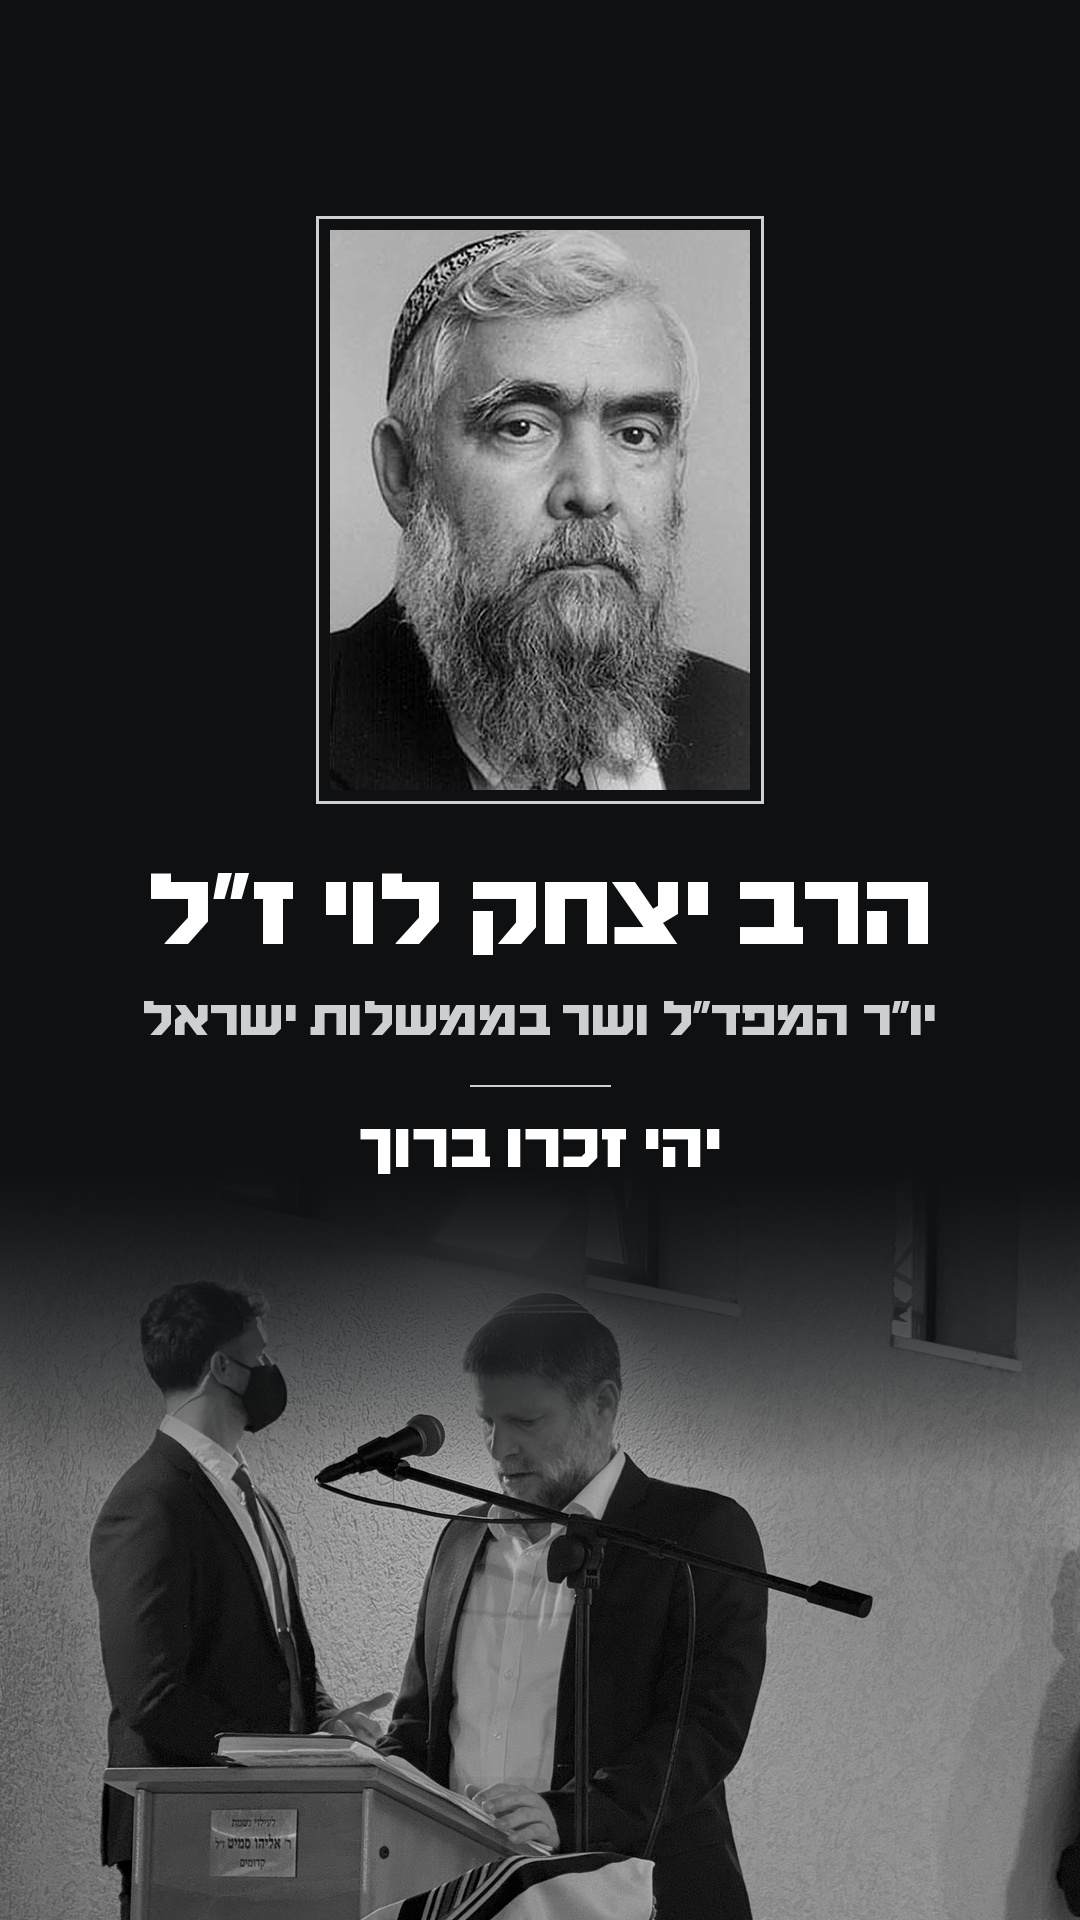
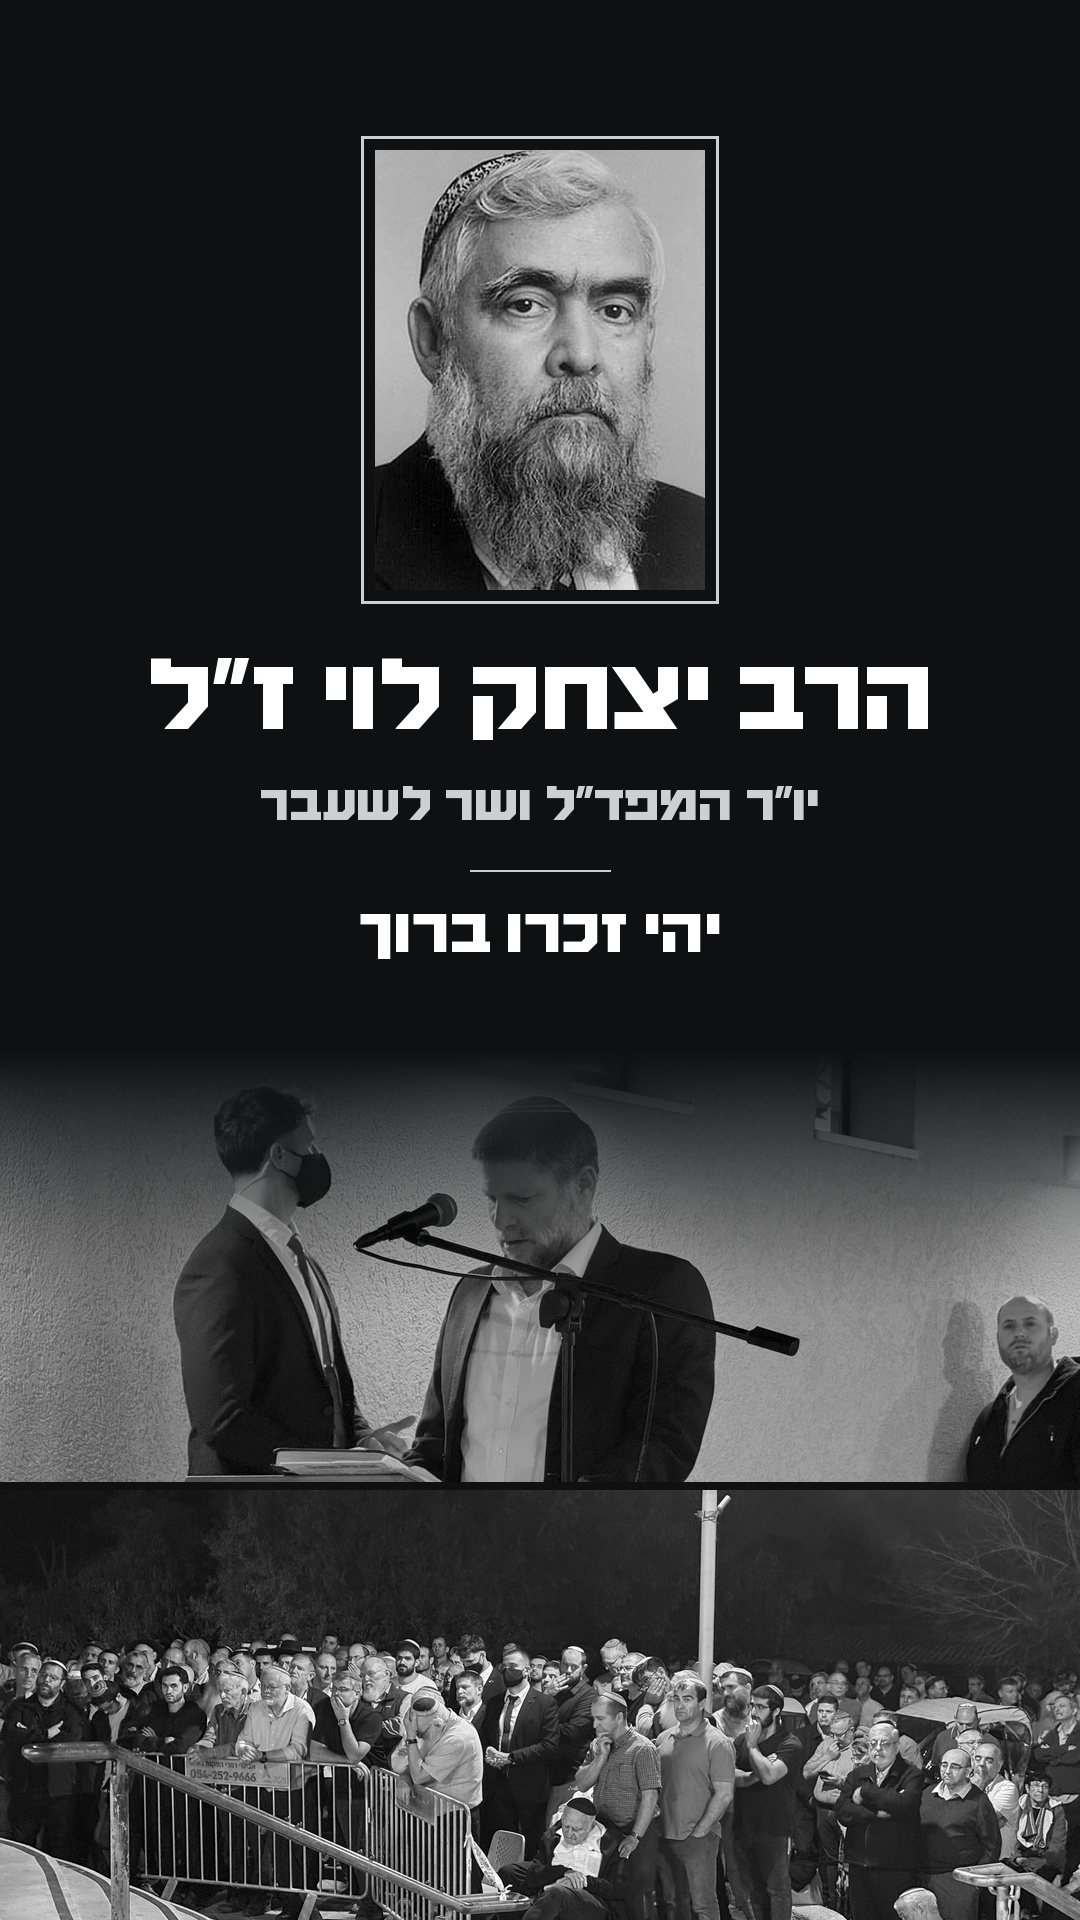
Levy story: add crowd strip, 'former minister'
Claude-Session: https://claude.ai/code/session_01RS3QK6pAd3YhyAuXZSJjH1

diff --git a/content-kit/hatzionut-hadatit/2026-11-story-rav-yitzhak-levy/make.py b/content-kit/hatzionut-hadatit/2026-11-story-rav-yitzhak-levy/make.py
@@ -7,25 +7,28 @@ W, H = 1080, 1920; INK = (14, 16, 18); SOFT = (205, 208, 210)
 def F(s): return ImageFont.truetype(HAIM, s, layout_engine=ImageFont.Layout.RAQM)
 def bw(im, c=1.08, b=1.0): return ImageEnhance.Brightness(ImageEnhance.Contrast(ImageOps.grayscale(im).convert('RGB')).enhance(c)).enhance(b)
 im = Image.new('RGB', (W, H), INK)
-# bottom: Smotrich at the lectern, B&W, fading up into black
-eu = bw(Image.open(HERE + '/eulogy.jpg').convert('RGB'), 1.05, .72)
-eu = ImageOps.fit(eu, (W, 760), Image.LANCZOS, centering=(.47, .4))
-m = Image.new('L', (1, 760))
-for y in range(760): m.putpixel((0, y), int(255 * min(1, y / 320) ** 1.4))
-im.paste(eu, (0, H - 760), m.resize((W, 760)))
+# bottom: two stacked B&W strips — Smotrich eulogizing, then the crowd — fading up into black
+def strip(path, h, cen, br):
+    p = bw(Image.open(HERE + '/' + path).convert('RGB'), 1.05, br); return ImageOps.fit(p, (W, h), Image.LANCZOS, centering=cen)
+SH = 430; GAP = 8; Y0 = H - 2 * SH - GAP
+im.paste(strip('eulogy.jpg', SH, (.47, .35), .78), (0, Y0))
+im.paste(strip('crowd.jpg', SH, (.5, .62), 1.05), (0, Y0 + SH + GAP))
+m = Image.new('L', (1, 260))
+for y in range(260): m.putpixel((0, y), int(255 * (1 - y / 260) ** 1.2))
+im.paste(Image.new('RGB', (W, 260), INK), (0, Y0), m.resize((W, 260)))
 # portrait, framed
 pr = Image.open(HERE + '/rav-levy.jpg').convert('RGB')
 pr = pr.resize((pr.width * 2, pr.height * 2), Image.LANCZOS).filter(ImageFilter.UnsharpMask(2, 50, 2))
-pw, ph = 420, 560; pr = bw(ImageOps.fit(pr, (pw, ph), Image.LANCZOS, centering=(.5, .3)), 1.05, .95)
-px, py = (W - pw) // 2, 230
+pw, ph = 330, 440; pr = bw(ImageOps.fit(pr, (pw, ph), Image.LANCZOS, centering=(.5, .3)), 1.05, .95)
+px, py = (W - pw) // 2, 150
 d = ImageDraw.Draw(im)
 d.rectangle((px - 14, py - 14, px + pw + 13, py + ph + 13), outline=SOFT, width=3)
 im.paste(pr, (px, py))
-y = py + ph + 70
+y = py + ph + 55
 def ctr(t, f, y, fill):
     d.text((W / 2, y), t, font=f, fill=fill, anchor='ma', direction='rtl')
 ctr('הרב יצחק לוי ז״ל', F(104), y, (255, 255, 255))
-ctr('יו״ר המפד״ל ושר בממשלות ישראל', F(50), y + 135, SOFT)
+ctr('יו״ר המפד״ל ושר לשעבר', F(50), y + 135, SOFT)
 d.line((W / 2 - 70, y + 225, W / 2 + 70, y + 225), fill=SOFT, width=2)
 ctr('יהי זכרו ברוך', F(64), y + 255, (255, 255, 255))
 im.save(HERE + '/story.jpg', quality=95); print(y + 330)
